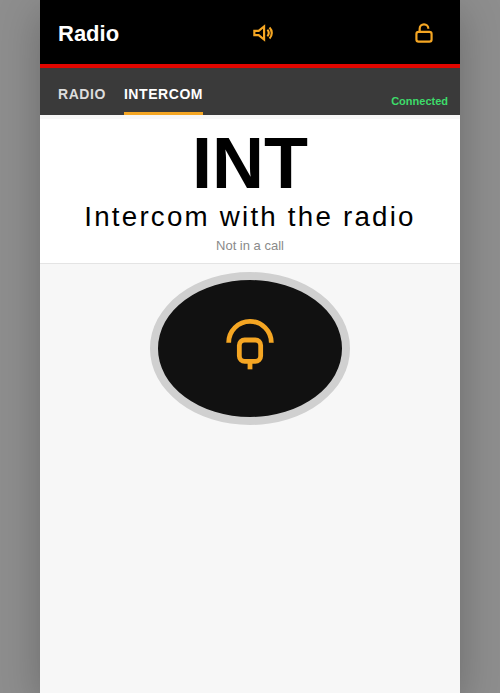
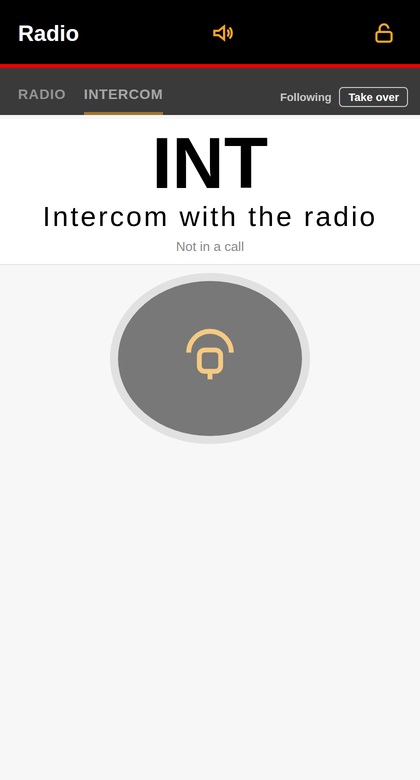
Show a filled audio buffer in the README screenshots.
Replace the empty 0m01s scrubber shots with a Connected radio view that displays Channel · time / duration and ±10 jumps at full width.

diff --git a/README.md b/README.md
@@ -4,9 +4,9 @@ Signal K plugin for an Icom M510E over the radio's WLAN, using the same UDP sess
 
 NMEA 0183 from the radio is parsed into Signal K. Sentences on the `nmea0183out` event (for example from `@signalk/signalk-to-nmea0183` and `signalk-n2kais-to-nmea0183`) are forwarded to the radio so AIS targets can show on the M510 display. That replaces the old `signalk-ct-m500-plugin` for this boat; leaving CT-M500 enabled alongside this plugin blocks squelch changes.
 
-| Radio | Intercom |
-| --- | --- |
-| ![Radio tab](screenshot-radio.png) | ![Intercom tab](screenshot-intercom.png) |
+![Radio tab with squelch and audio buffer](screenshot-radio.png)
+
+![Intercom tab](screenshot-intercom.png)
 
 ## Webapp
 
